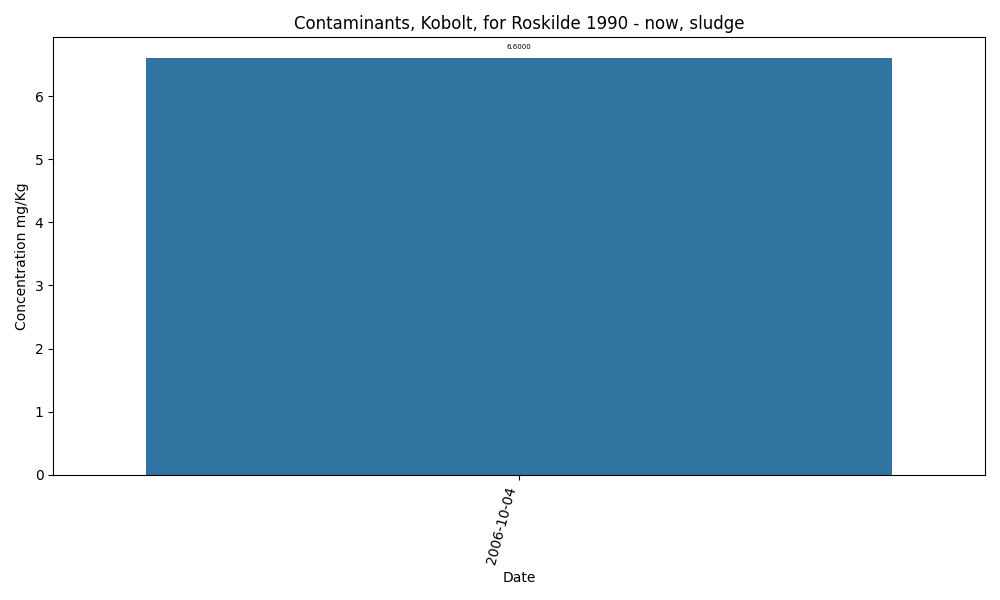
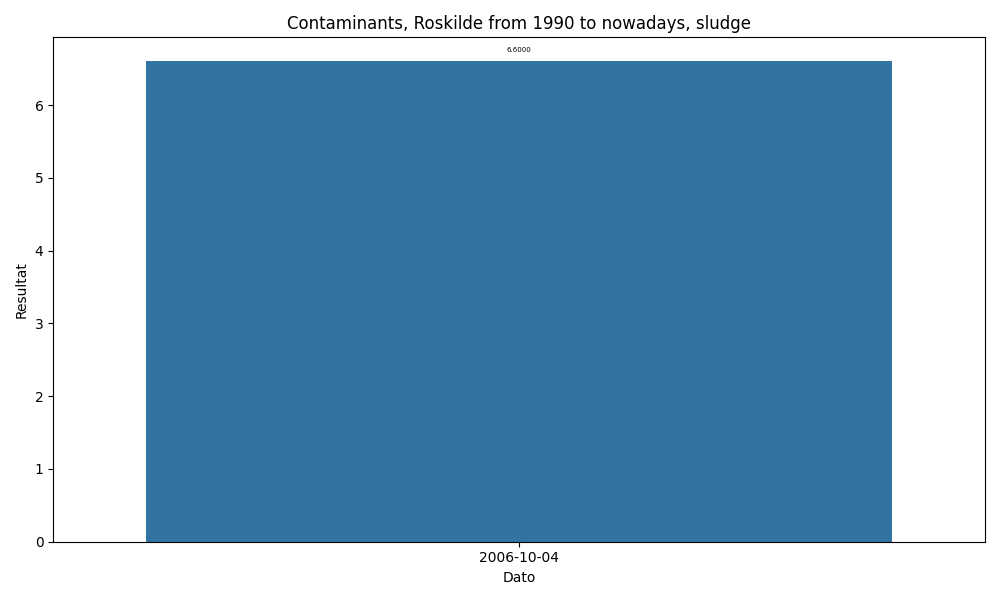
add_details

diff --git a/wastewater_sjelland_region.py b/wastewater_sjelland_region.py
@@ -7,6 +7,8 @@
 
 import io
 import os
+from scipy.interpolate import make_interp_spline
+import numpy as np
 import pandas as pd
 import seaborn as sns
 import seaborn as sns
@@ -194,32 +196,76 @@ df_r_grouped = data_frame_r.groupby('Stofparameter').agg({'Resultat': 'mean'})
 
 elements = ['Cadmium', 'Chrom', 'Bly', 'Kviksølv', 'Arsen', 'Nikkel', 'Kobber', 'Zink', 'Uran', 'Kobolt', 'Selen']
 
+#----------------------ordinary ploting of each plot------------------------------------
+#for i in elements:
+#    frame = data_frame_r[data_frame_r['Stofparameter'] == i][['Dato', 'Resultat', 'Enhed']]
+#    print(f"--------------{i}---------------------")
+#    print(frame)
+#
+#
+#    concentration_sorted = data_frame_r[data_frame_r['Stofparameter'] == i]#.sort_values(by='Dato')
+#    year_sorted = concentration_sorted['Dato']
+#    concentration_sorted_values = concentration_sorted['Resultat']
+#    #-------------------------- plotting for each i value --------------------------------------------
+#    plt.figure(figsize=(10, 6))
+#    plots = sns.barplot(x=year_sorted, y=concentration_sorted_values, hue=year_sorted, errorbar=None)
+#    # Annotate bars with values
+#    for bar in plots.patches:
+#        plots.annotate(format(bar.get_height(), '.4f'),
+#                       (bar.get_x() + bar.get_width() / 2,
+#                        bar.get_height()), ha='center', va='center',
+#                        size=5, xytext=(0, 8),
+#                        textcoords='offset points')
+#
+#
+#    plt.xlabel('Date')
+#    plt.ylabel(f'Concentration {y_title}')
+#    plt.xticks(rotation=75, ha="right")
+#    plt.title(f"Contaminants, {i}, for Roskilde 1990 - now, {atr}")
+#    plt.tight_layout()
+#    plt.savefig(f'contamination_{i}.png')
+#    # Show plot
+#    plt.show()
+#---------------------------------------------save plots as sublots grid---------------------------------------------
+
+cnt = 0
+n = 0
+fig, axes = plt.subplots(6, 2, figsize=(15, 18))
 for i in elements:
     frame = data_frame_r[data_frame_r['Stofparameter'] == i][['Dato', 'Resultat', 'Enhed']]
-    print(f"--------------{i}---------------------")
+    print(f"-----------------{i}---------------------")
     print(frame)
-
-
     concentration_sorted = data_frame_r[data_frame_r['Stofparameter'] == i]#.sort_values(by='Dato')
-    year_sorted = concentration_sorted['Dato']
+    year_sorted = concentration_sorted['Dato'].dt.strftime('%Y-%m') #.dt.year
     concentration_sorted_values = concentration_sorted['Resultat']
+
     #-------------------------- plotting for each i value --------------------------------------------
-    plt.figure(figsize=(10, 6))
-    plots = sns.barplot(x=year_sorted, y=concentration_sorted_values, hue=year_sorted, errorbar=None)
-    # Annotate bars with values
+
+    ax = axes[cnt, n]
+    # to depict in line plot, uncomment bellow
+    #sns.lineplot(x=year_sorted, y=concentration_sorted_values, ax=ax, legend=False, errorbar=None )
+    plots = sns.barplot(x=year_sorted, y=concentration_sorted_values, ax=ax, hue=year_sorted, errorbar=None)
+
     for bar in plots.patches:
-        plots.annotate(format(bar.get_height(), '.4f'),
+        ax.annotate(format(bar.get_height(), '.2f'),
                        (bar.get_x() + bar.get_width() / 2,
                         bar.get_height()), ha='center', va='center',
-                       size=5, xytext=(0, 8),
-                       textcoords='offset points')
+                        size=5, xytext=(0,2),
+                        textcoords='offset points')
 
+    if n % 2 == 0:
+        n += 1
+    else:
+        n = 0
+        cnt += 1
 
-    plt.xlabel('Date')
-    plt.ylabel(f'Concentration {y_title}')
-    plt.xticks(rotation=75, ha="right")
-    plt.title(f"Contaminants, {i}, for Roskilde 1990 - now, {atr}")
-    plt.tight_layout()
-    plt.savefig(f'contamination_{i}.png')
-    # Show plot
-    plt.show()
+    ax.set_title(f"{i}", fontsize=10)
+    ax.set_xlabel("  ")
+    ax.set_ylabel(f'Concentration {y_title}', fontsize=5)
+    ax.tick_params(axis='x', rotation=65, labelsize=4)
+
+plt.tight_layout()
+plt.suptitle(f"Contaminants, Roskilde from 1990 to nowadays, {atr}", fontsize=20)
+plt.subplots_adjust(top=0.92, wspace=0.15, hspace=0.5)
+plt.savefig(f"Contaminants, Roskilde from 1990 to nowadays, {atr}.png")
+plt.show()

diff --git a/air_pollution_data_processing.py b/air_pollution_data_processing.py
@@ -55,6 +55,7 @@ for file in files_to_merge:
     else:
         n = 0
         cnt += 1
+
 plt.xticks(rotation=45, ha="right")
 plt.tight_layout()
 fig.suptitle("Air Pollutants, Denmark", fontsize=20)

diff --git a/Readme.MD b/Readme.MD
@@ -55,41 +55,14 @@ Hg, Zn, Pb, As, Cd, Ni, Co, U, Cu
 Was decided to retrieve a historical data of it for the last 40 years from the portal and visualize it in plot view for 
 dangerous metal ions which were detected in sludge on the bottom. As it is visible, it still remains on that same level  
 
-![image](contamination_Cadmium.png)
- 
- [image](contamination_Chrome.png)
+![image](Contaminants_Roskilde_from_1990_to_nowadays_sludge.png)
 
- [image](contamination_Pb.png)
- 
- [image](contamination_Hg.png)
-
- [image](contamination_Nikkel.png)
-
- [image](contamination_Kobber.png)
- 
- [image](contamination_Zink.png)
 
 By unknown reason, monitoring of upper water lay is not accessible nowadays. Last measured data are from 2009 year.
 
-![image](contamination_Arsen_wastewater.png)
+![image](Contaminants_Roskild_from_1990_to_nowadays_wastewater.png)
 
- [image](contamination_Nikkel_wastewater.png)
-
- [image](contamination_Kobber_wastewater.png)
-
- [image](contamination_Zink_wastewater.png)
-
- [image](contamination_Uran_wastewater.png)
-
- [image](contamination_Kobolt_wastewater.png)
-
- [image](contamination_Selen_wastewater.png)
-
- [image](contamination_Chrom_wastewater.png)
-
- [image](contamination_Bly_wastewater.png)
-
- [image](contamination_Kviksølv_wastewater.png)
+ 
 
 It is not understandable, what does Uranium, is doing in danish sump near Roskilde
  
